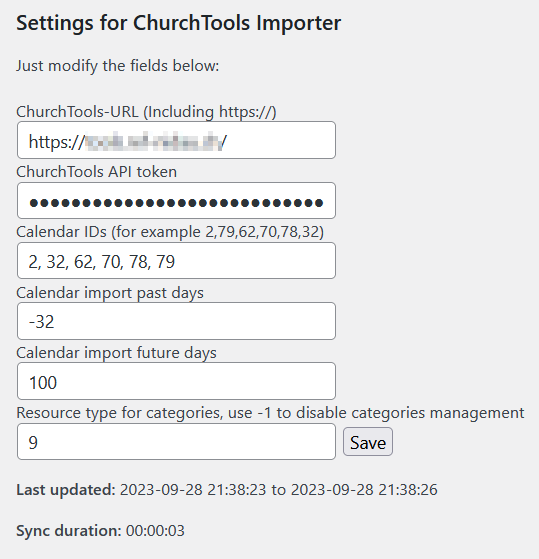
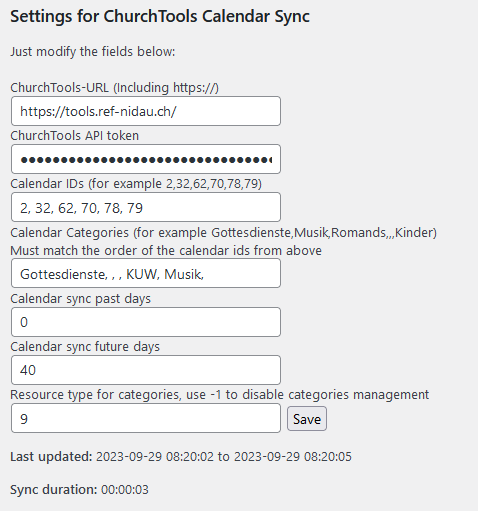
Implemented assign event categories based on source calendar

diff --git a/churchtools-dosync.php b/churchtools-dosync.php
@@ -30,8 +30,8 @@ $errorMessage= null;
 $options =  get_option('ctwpsync_options');
 
 // Make sure it's configured, else do nothing
-if(empty($options) || empty($options['url'])){
-    logError("No sync options found, doing nothing");
+if(empty($options) || empty($options['url']) || empty($options['apitoken'])){
+    logError("No sync options found, (url and/or api token missing), doing nothing");
     return;
 }
 $startTimestamp= Date('Y-m-d H:i:s');
@@ -44,6 +44,28 @@ try
     CTConfig::setApiKey($apiToken);
     CTConfig::validateConfig();
     $calendars= $options['ids'];
+    $calendars_categories= $options['ids_categories'];
+    $calendars_categories_mapping= [];
+
+    $i = 0;
+    while($i < count($calendars))
+    {
+        if ($i < count($calendars_categories)) {
+            if (isset($calendars_categories[$i])) {
+                $calendars_categories_mapping[$calendars[$i]]=  $calendars_categories[$i];
+            } else {
+                $calendars_categories_mapping[$calendars[$i]]=  null;
+            }
+        } else {
+            logInfo("Calendar categories maping out of range ".$i);
+            logInfo(serialize($calendars));
+            logInfo(serialize($calendars_categories));
+            $calendars_categories_mapping[$calendars[$i]]=  null;
+        }
+        $i++;
+    } 
+    logDebug("Categories mapping via calendar ID's: ".serialize($calendars_categories_mapping));
+
     $pastDays= $options['import_past'];
     $futureDays=  $options['import_future'];
     $resourcetype_for_categories= $options['resourcetype_for_categories'];
@@ -67,7 +89,7 @@ try
         ->where('to', $toDate)
         ->get();
     foreach ($result as $key => $ctCalEntry) {
-        processCalendarEntry($ctCalEntry, $resourcetype_for_categories);
+        processCalendarEntry($ctCalEntry, $calendars_categories_mapping, $resourcetype_for_categories);
     }
     // Now we will have to handle all wp events which are no longer visible
     // from CT (Either deleted or moved in another calendar)
@@ -76,9 +98,9 @@ try
     $endTimestamp= Date('Y-m-d H:i:s');
     $sdt= new DateTime($startTimestamp);
     $edt= new DateTime($endTimestamp);
-    set_transient('churchtools_wpcalendarsync_lastupdated',$startTimestamp.' to '.$endTimestamp, 24*HOUR_IN_SECONDS);
+    set_transient('churchtools_wpcalendarsync_lastupdated',$startTimestamp.' to '.$endTimestamp, 0);
     $interval = $edt->diff($sdt);
-    set_transient('churchtools_wpcalendarsync_lastsyncduration',$interval->format('%H:%I:%S'), 24*HOUR_IN_SECONDS);
+    set_transient('churchtools_wpcalendarsync_lastsyncduration',$interval->format('%H:%I:%S'), 0);
 }
 catch (Exception $e)
 {
@@ -93,10 +115,12 @@ logInfo("End sync cycle ".Date('Y-m-d H:i:s'));
  * 
  * Process a single calendar entry from ct and create or update wp event
  * 
- * @param type $ctCalEntry a CT calendar entry to be analyzed and processed
+ * @param Appointment $ctCalEntry a CT calendar entry to be analyzed and processed
+ * @param array $calendars_categories_mapping Array with category for calendar mapping
+ * @param int $resourcetype_for_categories Us this resource type for categories mapping
  * 
  */
-function processCalendarEntry(Appointment $ctCalEntry, int $resourcetype_for_categories) {
+function processCalendarEntry(Appointment $ctCalEntry, array $calendars_categories_mapping, int $resourcetype_for_categories) {
     if (!$ctCalEntry->getIsInternal()) {
         logDebug("Caption: ".$ctCalEntry->getCaption()." StartDate: ".$ctCalEntry->getStartDate()." EndDate: ".$ctCalEntry->getEndDate()." Is allday: ".$ctCalEntry->getAllDay());
         //logDebug("Object: ".serialize($ctCalEntry));
@@ -111,7 +135,7 @@ function processCalendarEntry(Appointment $ctCalEntry, int $resourcetype_for_cat
         $newCtImageID= null;
         if (sizeof($result) == 1) {
             // We did already map it
-            logInfo("Found mapping for ct id: ".$ctCalEntry->getId());
+            logDebug("Found mapping for ct id: ".$ctCalEntry->getId()." so already synched in the past");
             $event= em_get_event($result[0]->wp_id);
             if ($event->ID != null ){
                 // OK, still existing, make sure it's not in trash
@@ -123,7 +147,7 @@ function processCalendarEntry(Appointment $ctCalEntry, int $resourcetype_for_cat
                     $event= new EM_Event(false);
                     $addMode= true;
                 } else {
-                    logDebug("Event status ". $event->event_status);
+                    logDebug("Event status in wordpress ". $event->event_status);
                     $addMode= false;
                     $ct_image_id= $result[0]->ct_image_id;
                     $wp_image_id= $result[0]->wp_image_id;
@@ -137,7 +161,7 @@ function processCalendarEntry(Appointment $ctCalEntry, int $resourcetype_for_cat
                 $addMode= true;
             }
         } else {
-            logDebug("No mapping for event found");
+            logDebug("No mapping for event found, so create a new one");
             $event= new EM_Event(false);
             $addMode= true;
         }
@@ -223,7 +247,7 @@ function processCalendarEntry(Appointment $ctCalEntry, int $resourcetype_for_cat
             $wpdb->query($wpdb->prepare($sql));
         }
         // Handle event categories from resource type
-        updateEventCategories($resourcetype_for_categories, $ctCalEntry, $event);
+        updateEventCategories($calendars_categories_mapping, $resourcetype_for_categories, $ctCalEntry, $event);
     } else {
         // Perhaps we need to remove it, since visibility has changed
         global $wpctsync_tablename;
@@ -304,7 +328,7 @@ function getCreateLocation(Address $appointmentAddress) {
  * @param CTApi\Models\Calendars\Appointment\Appointment $ctCalEntry
  * @param EM_Event $event
  */
-function updateEventCategories(int $resourcetype_for_categories, Appointment $ctCalEntry, EM_Event $event) {
+function updateEventCategories(array $calendars_categories_mapping, int $resourcetype_for_categories, Appointment $ctCalEntry, EM_Event $event) {
     if ($resourcetype_for_categories > 0) {
         logDebug("Using resources of type ".$resourcetype_for_categories." for wordpress categories");
         // So we retrieve the resources booked with this calendar entry
@@ -316,6 +340,13 @@ function updateEventCategories(int $resourcetype_for_categories, Appointment $ct
         $combinedAppointment= CombinedAppointmentRequest::forAppointment($ctCalEntry->getCalendar()->getId(), $ctCalEntry->getId(), $sDate->format('Y-m-d'))->get();
         // logDebug("Got combined appointment ".serialize($combinedAppointment));
         $desiredCategories= [];
+        if ($calendars_categories_mapping[$ctCalEntry->getCalendar()->getId()] != null) {
+            // Add category via calendar id source
+            logDebug('Found category by calendar ID '.$calendars_categories_mapping[$ctCalEntry->getCalendar()->getId()]);
+            array_push($desiredCategories, $calendars_categories_mapping[$ctCalEntry->getCalendar()->getId()]);
+        } else {
+            logDebug('No category found by calendar ID '. $ctCalEntry->getCalendar()->getId().' '.serialize($calendars_categories_mapping));
+        }
         if ($combinedAppointment != null ) {
             // Now process the resource bookings (if any)
             $allBookings= $combinedAppointment->getBookings();

diff --git a/dashboard/dashboard_view.php b/dashboard/dashboard_view.php
@@ -1,5 +1,5 @@
 <div>
- 	<h2>Settings for ChurchTools Importer</h2>
+ 	<h2>Settings for ChurchTools Calendar Sync</h2>
  	<div>Just modify the fields below:</div>
  	<div>
  		<form method="post" class="ctwpsync_settings" action="" data-action="save_ctwpsync_settings">
@@ -7,11 +7,14 @@
 		<input type="text" size="30" name="ctwpsync_url" id="ctwpsync_url" class="text_box" placeholder="https://yourchurch.church.tools/" value="<?php echo $saved_data ? $saved_data['url'] : '' ; ?>" required> 
 		<br>ChurchTools API token<br>
 		<input type="password" size="30" name="ctwpsync_apitoken" id="ctwpsync_apitoken" class="text_box" placeholder="my login token" value="<?php echo $saved_data ? $saved_data['apitoken'] : '' ; ?>"> 
-		<br>Calendar IDs (for example 2,79,62,70,78,32)<br>
-		<input type="text" size="30" name="ctwpsync_ids" id="ctwpsync_ids" class="text_box" placeholder="42,43,52" value="<?php echo $saved_data ? implode(', ',$saved_data['ids']) : '' ; ?>" required> 
-		<br>Calendar import past days<br>
+		<br>Calendar IDs (for example 2,32,62,70,78,79)<br>
+		<input type="text" size="30" name="ctwpsync_ids" id="ctwpsync_ids" class="text_box" placeholder="42,43,52" value="<?php echo ($saved_data && array_key_exists('ids', $saved_data)) ? implode(', ',$saved_data['ids']) : '' ; ?>" required> 
+		<br>Calendar Categories (for example Gottesdienste,Musik,Romands,,,Kinder)<br>
+        Must match the order of the calendar ids from above<br>
+		<input type="text" size="30" name="ctwpsync_ids_categories" id="ctwpsync_ids_categories" class="text_box" placeholder="Gottesdienste,Musik,,,Kinder" value="<?php echo ($saved_data && array_key_exists('ids_categories', $saved_data) && count($saved_data['ids_categories'])>0) ? implode(', ',$saved_data['ids_categories']) : '' ; ?>" > 
+		<br>Calendar sync past days<br>
 		<input type="text" size="30" name="ctwpsync_import_past" id="ctwpsync_import_past" class="text_box" placeholder="0" value="<?php echo $saved_data ? $saved_data['import_past'] : '' ; ?>" required> 
-		<br>Calendar import future days<br>
+		<br>Calendar sync future days<br>
 		<input type="text" size="30" name="ctwpsync_import_future" id="ctwpsync_import_future" class="text_box" placeholder="380" value="<?php echo $saved_data ? $saved_data['import_future'] : '' ; ?>" required> 
 		<br>Resource type for categories, use -1 to disable categories management<br>
 		<input type="text" size="30" name="ctwpsync_resourcetype_for_categories" id="ctwpsync_resourcetype_for_categories" class="text_box" placeholder="-1" value="<?php echo $saved_data ? $saved_data['resourcetype_for_categories'] : '' ; ?>" required> 

diff --git a/churchtools-wpcalendarsync.php b/churchtools-wpcalendarsync.php
@@ -12,19 +12,20 @@
 add_action ('admin_menu', 'ctwpsync_setup_menu'  );
 add_action('save_ctwpsync_settings', 'save_ctwpsync_settings' );
 function ctwpsync_setup_menu() {
-	add_options_page('ChurchTools Cal Importer','ChurchTools calendar sync','manage_options','churchtools-wpcalendarsync','ctwpsync_dashboard');
+	add_options_page('ChurchTools Calendar Importer','ChurchTools Calsync','manage_options','churchtools-wpcalendarsync','ctwpsync_dashboard');
 	add_action('admin_init', 'register_ctwpsync_settings' );
 }
 function register_ctwpsync_settings(){
-	register_setting( 'ctwpsync-group', 'ctwpsync_url');
-	register_setting( 'ctwpsync-group', 'ctwpsync_apitoken');
-	register_setting( 'ctwpsync-group', 'ctwpsync_ids');
-	register_setting( 'ctwpsync-group', 'ctwpsync_import_past');
-	register_setting( 'ctwpsync-group', 'ctwpsync_import_future');
-	register_setting( 'ctwpsync-group', 'ctwpsync_resourcetype_for_categories');
+	register_setting( 'ctwpsync-group', 'ctwpsync_url');    // URL to the churchtools installation
+	register_setting( 'ctwpsync-group', 'ctwpsync_apitoken');   // API auth token
+	register_setting( 'ctwpsync-group', 'ctwpsync_ids');        // Calendar ID's to sync from
+	register_setting( 'ctwpsync-group', 'ctwpsync_ids_categories'); // Category for the above calendar id
+	register_setting( 'ctwpsync-group', 'ctwpsync_import_past');    // Days in the past to sync
+	register_setting( 'ctwpsync-group', 'ctwpsync_import_future');  // Days in the future to sync
+	register_setting( 'ctwpsync-group', 'ctwpsync_resourcetype_for_categories');    // Sync categories from resources
     $myPage= isset($_GET['page']) ? $_GET['page'] : "";
 	if ( $myPage === str_replace('.php','',basename(__FILE__)) ) {
-		if(!empty($_POST['ctwpsync_url'])){
+		if(!empty($_POST['ctwpsync_url']) && !empty($_POST['ctwpsync_apitoken'])){
 			save_ctwpsync_settings();
 		}
 	}
@@ -54,7 +55,13 @@ function save_ctwpsync_settings() {
 			$data['ids'][] = intval($id);
 		}
 	}
-	sort($data['ids']);
+    // Don't sort ID's, otherwise the category assignment gets wrong
+	$ids_categories=trim($_POST['ctwpsync_ids_categories']);
+	$data['ids_categories']=[];
+	foreach(preg_split('/,/',$ids_categories) as $id_cat){
+        $data['ids_categories'][] = trim($id_cat);
+	}
+    // Don't sort ID's, otherwise the category assignment gets wrong
 	$data['import_past'] = trim($_POST['ctwpsync_import_past']);
 	$data['import_future'] = trim($_POST['ctwpsync_import_future']);
     $data['resourcetype_for_categories'] = trim($_POST['ctwpsync_resourcetype_for_categories']);

diff --git a/README.md b/README.md
@@ -11,6 +11,7 @@ https://de.wordpress.org/plugins/events-manager/
 
 ## Features
 - Sync calendar entries from selected calendars to wordpress
+- Assign categories based on source calendar
 - Event categories can be assigned via churchtool resources
 - The title, description and location are synced to wordpress
 - The image of the calendar entry is synced to wordpress
@@ -20,9 +21,9 @@ https://de.wordpress.org/plugins/events-manager/
 - Creates logfile in the plugin folder, configurable log levels
 
 ### Room for improvement (and/or missing features)
-- Assign categories based on calendar (High priority)
 - Use plugin versioning
 - Build wordpress package via github actions
+- Handle recurrence of events (perhaps)
 - Configure log level from wordpress UI
 - Show log in wordpress UI
 - Take event information over to wordpress

diff --git a/Changelog.MD b/Changelog.MD
@@ -1,0 +1,6 @@
+# churchtools-wp-calendarsync changelog
+
+## 2023-09-29
+- Assign categories based on source calendar
+
+(c) 2023 Aarboard a.schild@aarboard.ch
